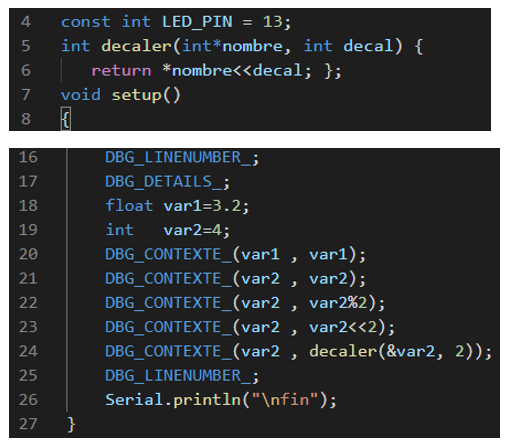
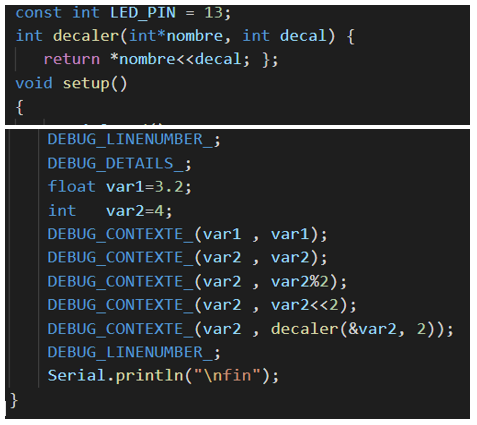
renommer DBG_ pour DEBUG_

Changed region(s): [[0.0, 0.0, 0.9979, 1.0], [0.4696, 0.3671, 0.499, 0.3976]]

diff --git a/random/Debogage/Exemple2/include/MesMacros.h b/random/Debogage/Exemple2/include/MesMacros.h
@@ -1,0 +1,24 @@
+// directives et macros
+#ifndef DEBUG_ 
+      #define DEBUG_ true      // false pour masquer les traces   
+#endif
+#define DEBUG_STRING_(x) if (DEBUG_) {Serial.print(x); };
+#define DEBUG_LINENUMBER_\
+      if (DEBUG_) {\
+      Serial.print( F("We are at LINE: "));\
+      Serial.println(__LINE__);\
+      } ;
+#define DEBUG_CONTEXTE_(TexteLitteral, NomVariable)\
+      if (DEBUG_) {\
+      Serial.print( F(#TexteLitteral "\t"  #NomVariable"=") ); \
+      Serial.println((NomVariable)); \
+      } ;
+#define DEBUG_DETAILS_\
+      if (DEBUG_) {\
+            Serial.print( F("  compiled :") );\
+            Serial.print( F(__DATE__) );\
+            Serial.print( F(",") );\
+            Serial.print( F(__TIME__) );\
+            Serial.print( F(",") );\
+            Serial.println( F(__FILE__) );\
+      } ;

diff --git a/random/Debogage/Exemple1/src/main.cpp b/random/Debogage/Exemple1/src/main.cpp
@@ -28,15 +28,14 @@ void afficherTiret() {
 }
 void afficherSOS() {             // Dit Dit Dit Dash Dash Dash Dit Dit Dit 
    if (DEBUG_) {
-       DEBUG_STRING_("S");
+        Serial.print("S");
    }
     afficherPoint();
     afficherPoint();
     afficherPoint();
     delay(3*DELAIS_BASE);
-  
-   if (DEBUG_) {
-       DEBUG_STRING_("O");
+    if (DEBUG_) {
+        Serial.print("O");
    }
     afficherTiret();
     afficherTiret();
@@ -44,7 +43,7 @@ void afficherSOS() {             // Dit Dit Dit Dash Dash Dash Dit Dit Dit
     delay(3*DELAIS_BASE);
 
     if (DEBUG_) {
-       DEBUG_STRING_("S");
+        Serial.print("S");
     }
     afficherPoint();
     afficherPoint();
@@ -65,7 +64,6 @@ void setup()
    }
 */
     afficherSOS();
-
 /*   if (DEBUG_) {
        DEBUG_STRING_("retour de afficherSOS()");
    }

diff --git a/random/Debogage/Exemple2/src/main.cpp b/random/Debogage/Exemple2/src/main.cpp
@@ -1,4 +1,4 @@
-// #include "Macros.h"
+// #include "MesMacros.h"
 #include <Arduino.h>
 
 const int LED_PIN = 13;
@@ -13,16 +13,16 @@ void setup()
    
        digitalWrite(LED_PIN, LOW);
    
-    DBG_LINENUMBER_;
-    DBG_DETAILS_;
+    DEBUG_LINENUMBER_;
+    DEBUG_DETAILS_;
     float var1=3.2;
     int   var2=4;
-    DBG_CONTEXTE_(var1 , var1);
-    DBG_CONTEXTE_(var2 , var2);
-    DBG_CONTEXTE_(var2 , var2%2);
-    DBG_CONTEXTE_(var2 , var2<<2);
-    DBG_CONTEXTE_(var2 , decaler(&var2, 2));
-    DBG_LINENUMBER_;
+    DEBUG_CONTEXTE_(var1 , var1);
+    DEBUG_CONTEXTE_(var2 , var2);
+    DEBUG_CONTEXTE_(var2 , var2%2);
+    DEBUG_CONTEXTE_(var2 , var2<<2);
+    DEBUG_CONTEXTE_(var2 , decaler(&var2, 2));
+    DEBUG_LINENUMBER_;
     Serial.println("\nfin");   
 }
 

diff --git a/random/Debogage/debug_partie1.md b/random/Debogage/debug_partie1.md
@@ -67,7 +67,7 @@ Avec la macro `DEBUG_STRING_(x)`, le programmeur n'inscrit qu'une ligne de code 
 
 A gauche, texte original, à droite, texte généré par le préprocesseur
 
-![](img/afficherS_3.png) ![](img/afficherS_2.png)
+![S3](img/afficherS_3.png) ![S2](img/afficherS_2.png)
 
 ### Supprimer les traces du débogueur
 
